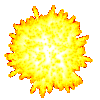
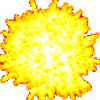
explosion improvements: 24 frames available; sizes in index.html match actual sizes; duration of explosion now taken from last item in exploision array. Draw function could now have image scaling added if needed.

diff --git a/index.html b/index.html
@@ -6,25 +6,31 @@
   <script src="js/jquery-1.11.1.js"></script>
 </head>
 <body>
-  <img id="ship" src="images/ship_8.png" alt="Player Ship" width="200" height="200">
-  <img id="shipExp0" src="images/explosion_frames/shipExp0.png" alt="explosion" width="200" height="200">
-  <img id="shipExp1" src="images/explosion_frames/shipExp1.png" alt="explosion" width="200" height="200">
-  <img id="shipExp2" src="images/explosion_frames/shipExp2.png" alt="explosion" width="200" height="200">
-  <img id="shipExp3" src="images/explosion_frames/shipExp3.png" alt="explosion" width="200" height="200">
-  <img id="shipExp4" src="images/explosion_frames/shipExp4.png" alt="explosion" width="200" height="200">
-  <img id="shipExp5" src="images/explosion_frames/shipExp5.png" alt="explosion" width="200" height="200">
-  <img id="shipExp6" src="images/explosion_frames/shipExp6.png" alt="explosion" width="200" height="200">
-  <img id="shipExp7" src="images/explosion_frames/shipExp7.png" alt="explosion" width="200" height="200">
-  <img id="shipExp8" src="images/explosion_frames/shipExp8.png" alt="explosion" width="200" height="200">
-  <img id="shipExp9" src="images/explosion_frames/shipExp9.png" alt="explosion" width="200" height="200">
-  <img id="shipExp10" src="images/explosion_frames/shipExp10.png" alt="explosion" width="200" height="200">
-  <img id="shipExp11" src="images/explosion_frames/shipExp11.png" alt="explosion" width="200" height="200">
-  <img id="shipExp12" src="images/explosion_frames/shipExp12.png" alt="explosion" width="200" height="200">
-  <img id="shipExp13" src="images/explosion_frames/shipExp13.png" alt="explosion" width="200" height="200">
-  <img id="shipExp14" src="images/explosion_frames/shipExp14.png" alt="explosion" width="200" height="200">
-  <img id="shipExp15" src="images/explosion_frames/shipExp15.png" alt="explosion" width="200" height="200">
-  <img id="shipExp16" src="images/explosion_frames/shipExp16.png" alt="explosion" width="200" height="200">
-  <img id="shipExp17" src="images/explosion_frames/shipExp17.png" alt="explosion" width="200" height="200">
+  <img id="ship" src="images/ship_8.png" alt="Player Ship" width="100" height="100">
+  <img id="shipExp0" src="images/explosion_frames/shipExp0.png" alt="explosion" width="100" height="100">
+  <img id="shipExp1" src="images/explosion_frames/shipExp1.png" alt="explosion" width="100" height="100">
+  <img id="shipExp2" src="images/explosion_frames/shipExp2.png" alt="explosion" width="100" height="100">
+  <img id="shipExp3" src="images/explosion_frames/shipExp3.png" alt="explosion" width="100" height="100">
+  <img id="shipExp4" src="images/explosion_frames/shipExp4.png" alt="explosion" width="100" height="100">
+  <img id="shipExp5" src="images/explosion_frames/shipExp5.png" alt="explosion" width="100" height="100">
+  <img id="shipExp6" src="images/explosion_frames/shipExp6.png" alt="explosion" width="100" height="100">
+  <img id="shipExp7" src="images/explosion_frames/shipExp7.png" alt="explosion" width="100" height="100">
+  <img id="shipExp8" src="images/explosion_frames/shipExp8.png" alt="explosion" width="100" height="100">
+  <img id="shipExp9" src="images/explosion_frames/shipExp9.png" alt="explosion" width="100" height="100">
+  <img id="shipExp10" src="images/explosion_frames/shipExp10.png" alt="explosion" width="100" height="100">
+  <img id="shipExp11" src="images/explosion_frames/shipExp11.png" alt="explosion" width="100" height="100">
+  <img id="shipExp12" src="images/explosion_frames/shipExp12.png" alt="explosion" width="100" height="100">
+  <img id="shipExp13" src="images/explosion_frames/shipExp13.png" alt="explosion" width="100" height="100">
+  <img id="shipExp14" src="images/explosion_frames/shipExp14.png" alt="explosion" width="100" height="100">
+  <img id="shipExp15" src="images/explosion_frames/shipExp15.png" alt="explosion" width="100" height="100">
+  <img id="shipExp16" src="images/explosion_frames/shipExp16.png" alt="explosion" width="100" height="100">
+  <img id="shipExp17" src="images/explosion_frames/shipExp17.png" alt="explosion" width="100" height="100">
+  <img id="shipExp18" src="images/explosion_frames/shipExp18.png" alt="explosion" width="100" height="100">
+  <img id="shipExp19" src="images/explosion_frames/shipExp19.png" alt="explosion" width="100" height="100">
+  <img id="shipExp20" src="images/explosion_frames/shipExp20.png" alt="explosion" width="100" height="100">
+  <img id="shipExp21" src="images/explosion_frames/shipExp21.png" alt="explosion" width="100" height="100">
+  <img id="shipExp22" src="images/explosion_frames/shipExp22.png" alt="explosion" width="100" height="100">
+  <img id="shipExp23" src="images/explosion_frames/shipExp23.png" alt="explosion" width="100" height="100">
   <canvas id="canvas"></canvas>
   <script src="js/spacewars.js"></script>
 </body>

diff --git a/index.js b/index.js
@@ -28,9 +28,14 @@ function Thing() {
   this.radius = .06; // collision detection radius
   this.defaultImage = 'ship';
   this.currentImage = 'ship';
-  this.explosion = [500, 'shipExp0', 125, 'shipExp1', 250, 'shipExp2', 375, 'shipExp3', 500];
+  this.explosion = ['shipExp0', 20, 'shipExp1', 40, 'shipExp2', 60, 'shipExp3', 80,
+                         'shipExp4', 100, 'shipExp5', 120, 'shipExp6', 140, 'shipExp7', 160,
+                         'shipExp8', 180, 'shipExp9', 200, 'shipExp10', 220, 'shipExp11', 240,
+                         'shipExp12', 260, 'shipExp13', 280, 'shipExp14', 300, 'shipExp15', 320,
+                         'shipExp16', 340, 'shipExp17', 360, 'shipExp18', 380, 'shipExp19', 400,
+                         'shipExp20', 420, 'shipExp21', 440, 'shipExp22', 460, 'shipExp23', 480];
   this.explosionTimer = 0;
-  this.explosionFrameCounter = 1;
+  this.explosionFrameCounter = 0;
   this.exploding = false;
   this.lifetime = 0;
   this.lifeTimer = 0;
@@ -102,10 +107,10 @@ function explode(obj) {
   obj.resetVector();
   var increment = 1000 / framerate;
   obj.explosionTimer += increment;
-  if (obj.explosionTimer >= obj.explosion[0]) {
+  if (obj.explosionTimer >= obj.explosion[obj.explosion.length - 1]) {
     obj.exploding = false;
     obj.explosionTimer = 0;
-    obj.explosionFrameCounter = 1;
+    obj.explosionFrameCounter = 0;
     return 'end of explosion';
   };
   if (obj.explosionTimer >= obj.explosion[obj.explosionFrameCounter + 1]) {

diff --git a/public/js/spacewars.js b/public/js/spacewars.js
@@ -19,6 +19,12 @@ $.getScript("/socket.io/socket.io.js", function() {
   document.getElementById("shipExp15").style.display = "none";
   document.getElementById("shipExp16").style.display = "none";
   document.getElementById("shipExp17").style.display = "none";
+  document.getElementById("shipExp18").style.display = "none";
+  document.getElementById("shipExp19").style.display = "none";
+  document.getElementById("shipExp20").style.display = "none";
+  document.getElementById("shipExp21").style.display = "none";
+  document.getElementById("shipExp22").style.display = "none";
+  document.getElementById("shipExp23").style.display = "none";
 
   var canvas = document.getElementById("canvas");
   var context = canvas.getContext("2d");
@@ -37,8 +43,7 @@ $.getScript("/socket.io/socket.io.js", function() {
     context.save();
     context.translate(x, y);
     context.rotate(angle);
-    // context.drawImage(thisImage, -(w / 2), -(h / 2), canvasW / 25, canvasH / 20);
-    context.drawImage(thisImage, -(w / 2), -(h / 2), canvasW / 25, canvasH / 20);
+    context.drawImage(thisImage, -(w / 2), -(h / 2), w, h);
     context.restore();
   };
 
